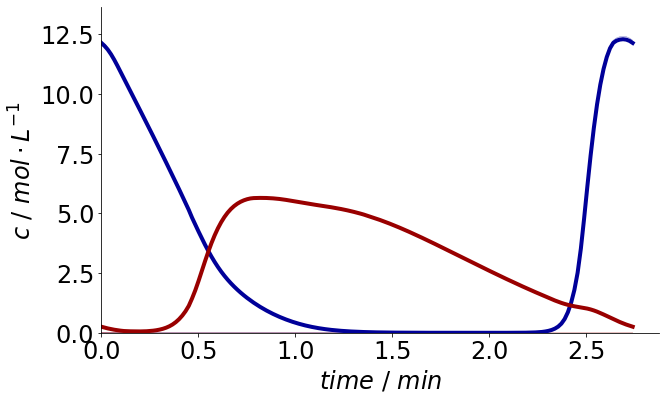
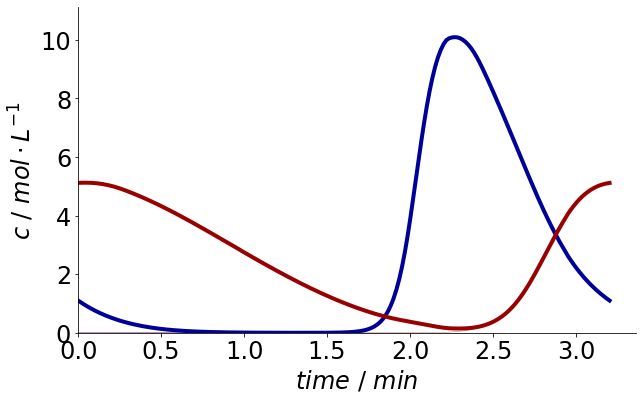
results case 1

diff --git a/case_1/case_1b_simulation.py b/case_1/case_1b_simulation.py
@@ -6,7 +6,7 @@ from CADETProcess.processModel import FlowSheet
 from CADETProcess.processModel import Process
 
 process_name = flow_sheet_name = 'batch_binary'
-case_dir = 'case_1'
+case_dir = 'case_1b'
 
 # Binding Model
 binding_model = Langmuir(n_comp=2, name='langmuir')
@@ -24,7 +24,7 @@ eluent.c = [0, 0]
 column = Column(n_comp=2, name='column')
 column.length = 0.6
 column.diameter = 0.024
-column.axial_dispersion = 4.7e-7
+column.axial_dispersion = 2.4e-6
 column.total_porosity = 0.7
 
 column.binding_model = binding_model
@@ -61,8 +61,8 @@ batch_binary.add_event_dependency('eluent_off', ['feed_on'])
 batch_binary.add_event_dependency('feed_off', ['feed_on', 'feed_duration'],[1,1])
 
 # Set process times
-batch_binary.cycle_time = 164.301
-batch_binary.feed_duration.time = 48.159
+batch_binary.cycle_time = 192.163
+batch_binary.feed_duration.time = 46.463
 
 
 if __name__ == '__main__':

diff --git a/case_1/case_1b_optimization.py b/case_1/case_1b_optimization.py
@@ -4,7 +4,7 @@ from CADETProcess.simulation import Cadet, ProcessEvaluator
 from CADETProcess.optimization import OptimizationProblem
 from CADETProcess.common import RankedPerformance
 
-from case_1_simulation import batch_binary
+from case_1b_simulation import batch_binary
 
 process_simulator = Cadet()
 process_simulator.evaluate_stationarity = True
@@ -14,7 +14,7 @@ purity_required = [0.95, 0.95]
 evaluator = ProcessEvaluator(process_simulator, purity_required, ranking)
 
 optimization_problem = OptimizationProblem(batch_binary, evaluator,
-                                           name='case_1', save_log=True)
+                                           name='case_1b', save_log=True)
 
 def objective_function(performance):
     ranked = RankedPerformance(performance, ranking)
